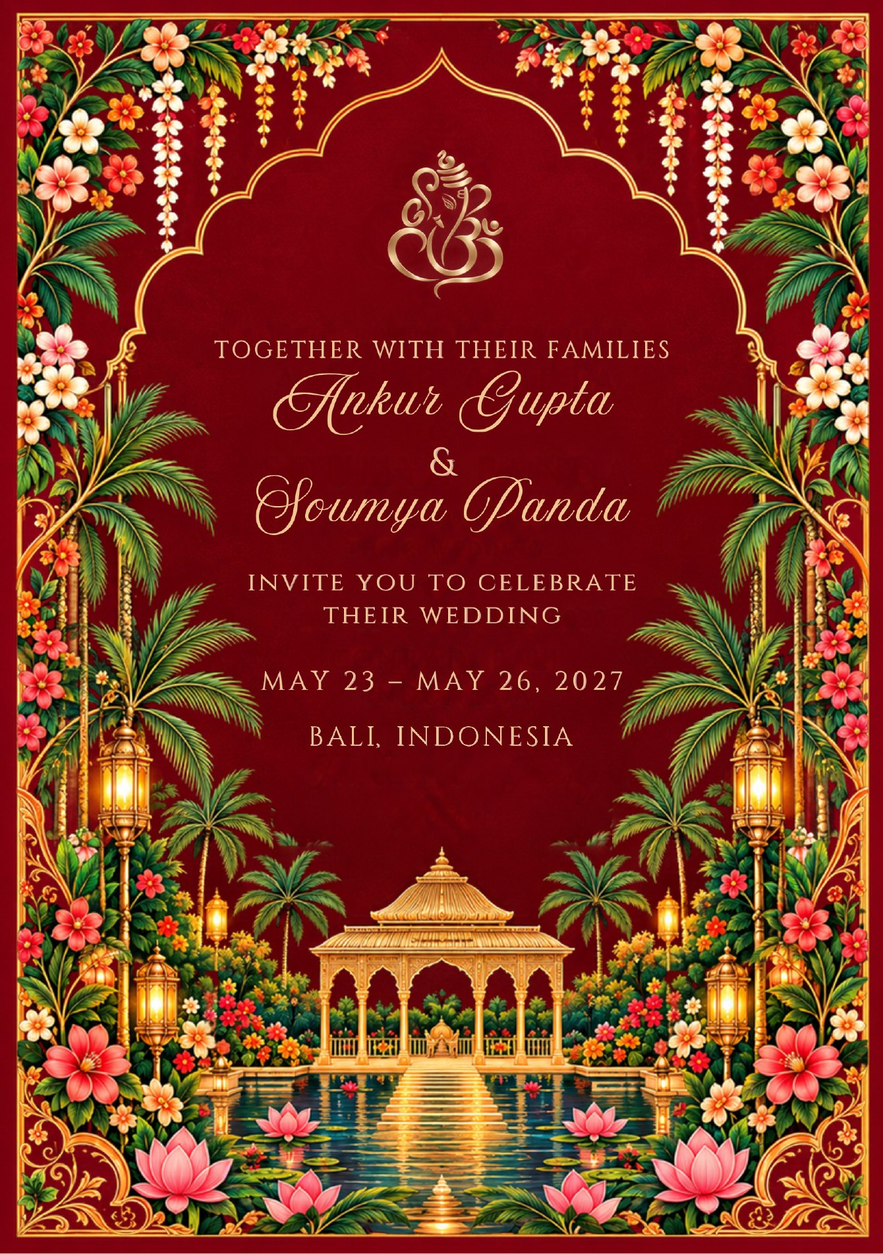
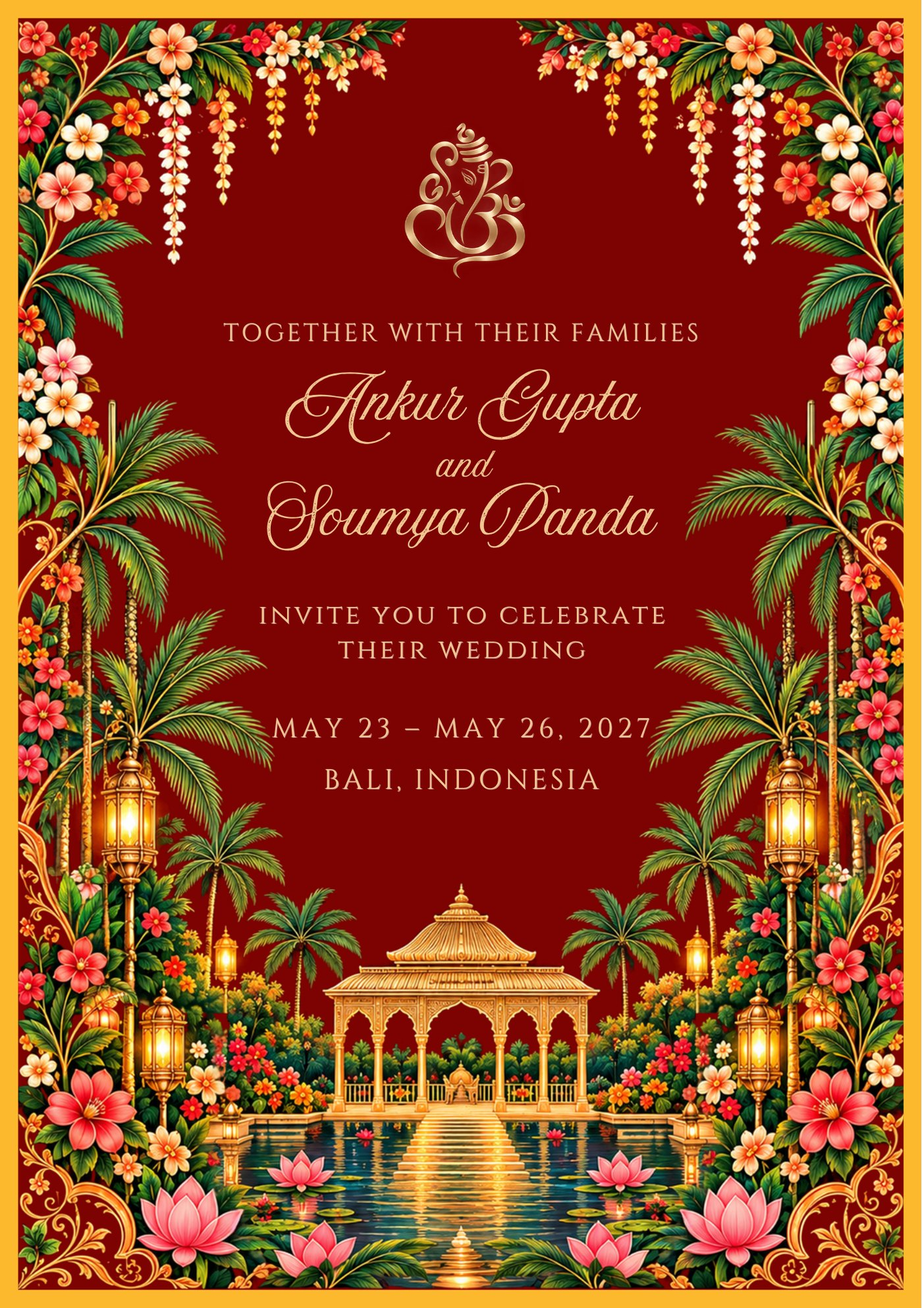
Copy edits from Ankur & Soumya, updated card suite, Tangerine script, sangeet green / reception blue
Claude-Session: https://claude.ai/code/session_012RtWByQQd2LNZ8wceq3z2x

diff --git a/index.html b/index.html
@@ -11,13 +11,13 @@
 <link rel="icon" href="img/monogram.png">
 <link rel="preconnect" href="https://fonts.googleapis.com">
 <link rel="preconnect" href="https://fonts.gstatic.com" crossorigin>
-<link href="https://fonts.googleapis.com/css2?family=Cinzel:wght@400;600&family=Pinyon+Script&family=Cormorant+Garamond:ital,wght@0,400;0,500;0,600;1,400;1,500&display=swap" rel="stylesheet">
+<link href="https://fonts.googleapis.com/css2?family=Cinzel:wght@400;600&family=Tangerine:wght@400;700&family=Cormorant+Garamond:ital,wght@0,400;0,500;0,600;1,400;1,500&display=swap" rel="stylesheet">
 <style>
 :root{
   --parchment:#F4EBD6; --parchment-deep:#EADCBF; --ink:#5A1A1E; --ink-soft:#7A3A3E;
   --gold:#C7A24A; --gold-deep:#9C7A2A; --teal:#1F4E57; --teal-deep:#153940;
   --coral:#D9553E; --turmeric:#E7B22C; --midnight:#1B2A5A; --blush:#F0B7B2; --emerald:#0F4D3A;
-  --serif:"Cormorant Garamond", Georgia, serif; --caps:"Cinzel", "Cormorant Garamond", serif; --script:"Pinyon Script", "Cormorant Garamond", cursive;
+  --serif:"Cormorant Garamond", Georgia, serif; --caps:"Cinzel", "Cormorant Garamond", serif; --script:"Tangerine", "Cormorant Garamond", cursive;
   --max:1120px; --gutter:clamp(16px,4vw,48px);
 }
 *{box-sizing:border-box}
@@ -51,11 +51,11 @@ h1,h2,h3{font-weight:500;line-height:1.1;margin:0}
 .hero .bg{position:absolute;inset:0;z-index:-2;background:var(--teal-deep) url("img/gen/hero.jpg") 60% center/cover no-repeat}
 .hero .veil{position:absolute;inset:0;z-index:-1;background:linear-gradient(to bottom,rgba(20,30,40,.35) 0%,rgba(20,30,40,.15) 45%,rgba(60,20,22,.72) 100%)}
 .hero .inner{padding:72px var(--gutter) 64px;max-width:760px}
-.hero .mono{width:min(44vw,220px);margin:0 auto 18px;filter:drop-shadow(0 4px 14px rgba(0,0,0,.35))}
-.hero h1{font-family:var(--script);font-size:clamp(2.7rem,8.5vw,6rem);font-weight:400;letter-spacing:.01em;line-height:1.15;white-space:nowrap;text-shadow:0 2px 18px rgba(0,0,0,.45)}
+.hero .mono{width:min(44vw,220px);margin:0 auto 18px;filter:brightness(0) invert(1) drop-shadow(0 4px 14px rgba(0,0,0,.45))}
+.hero h1{font-family:var(--script);font-size:clamp(3.8rem,12vw,8.4rem);font-weight:700;letter-spacing:.01em;line-height:1.15;white-space:nowrap;text-shadow:0 2px 18px rgba(0,0,0,.45)}
 .hero h1 .amp{color:#fff;padding:0 .08em;font-size:.8em}
-.hero .when{font-family:var(--caps);font-size:clamp(.75rem,2.4vw,1rem);letter-spacing:.3em;text-transform:uppercase;margin:18px 0 6px;color:#F6E7C1}
-.hero .where{font-style:italic;font-size:clamp(1.15rem,3vw,1.5rem);color:#fff;opacity:.95}
+.hero .when{font-family:var(--caps);font-weight:600;font-size:clamp(1rem,3.2vw,1.4rem);text-shadow:0 2px 10px rgba(0,0,0,.5);letter-spacing:.3em;text-transform:uppercase;margin:18px 0 6px;color:#F6E7C1}
+.hero .where{font-style:italic;font-weight:600;font-size:clamp(1.5rem,4.2vw,2.1rem);text-shadow:0 2px 10px rgba(0,0,0,.5);color:#fff;opacity:.95}
 .count{display:flex;justify-content:center;gap:clamp(14px,4vw,36px);margin:34px 0 10px}
 .count div{display:grid;gap:2px}
 .count b{font-family:var(--caps);font-weight:400;font-size:clamp(1.6rem,5vw,2.6rem);line-height:1}
@@ -81,8 +81,9 @@ h1,h2,h3{font-weight:500;line-height:1.1;margin:0}
 .event{position:relative;color:#fff;padding:clamp(56px,9vw,120px) 0;isolation:isolate;overflow:hidden}
 .event .bg{position:absolute;inset:0;z-index:-2;background-size:cover;background-position:center}
 .event .veil{position:absolute;inset:0;z-index:-1}
-.event .wrap{display:grid}
-.event .text{max-width:560px}
+.event .wrap{display:grid;max-width:1360px}
+.event .text{max-width:470px}
+.event .verse{font-style:italic;line-height:1.65;font-size:1.15rem}
 .event .om{font-family:var(--serif);font-size:2rem;line-height:1;color:#F6D98B;margin-bottom:10px}
 .event .day{font-family:var(--caps);font-size:.72rem;letter-spacing:.3em;opacity:.9}
 .event h3{font-family:var(--caps);font-weight:400;font-size:clamp(1.7rem,4.2vw,2.6rem);letter-spacing:.16em;margin:10px 0 4px;color:#F6D98B}
@@ -97,8 +98,8 @@ h1,h2,h3{font-weight:500;line-height:1.1;margin:0}
 .event .cal{display:inline-block;margin-top:22px;font-family:var(--caps);font-size:.68rem;letter-spacing:.24em;color:inherit;text-decoration:none;border:1px solid rgba(255,255,255,.7);padding:10px 18px;border-radius:2px}
 .event .cal:hover{background:rgba(255,255,255,.15)}
 /* text on the left: darken left; text on the right: darken right */
-.event.left .veil{background:linear-gradient(90deg,var(--tint) 0%,var(--tint) 35%,var(--tint-soft) 60%,transparent 100%)}
-.event.right .veil{background:linear-gradient(270deg,var(--tint) 0%,var(--tint) 35%,var(--tint-soft) 60%,transparent 100%)}
+.event.left .veil{background:linear-gradient(90deg,var(--tint) 0%,var(--tint) 46%,var(--tint-soft) 66%,transparent 92%)}
+.event.right .veil{background:linear-gradient(270deg,var(--tint) 0%,var(--tint) 46%,var(--tint-soft) 66%,transparent 92%)}
 .event.right .text{margin-left:auto}
 @media (max-width:819px){
   .event{padding:0 0 clamp(40px,8vw,56px);overflow:hidden}
@@ -111,9 +112,9 @@ h1,h2,h3{font-weight:500;line-height:1.1;margin:0}
 }
 .e-welcome{--solid:#B8402F;--tint:rgba(170,52,36,.92);--tint-soft:rgba(170,52,36,.45);background:#B8402F}
 .e-haldi{--solid:#C98E12;--tint:rgba(196,138,14,.9);--tint-soft:rgba(196,138,14,.4);background:#C98E12}
-.e-sangeet{--solid:#121B3F;--tint:rgba(16,24,66,.92);--tint-soft:rgba(16,24,66,.45);background:#121B3F}
+.e-sangeet{--solid:#10301F;--tint:rgba(14,44,30,.93);--tint-soft:rgba(14,44,30,.45);background:#10301F}
 .e-ceremony{--solid:#B0666B;--tint:rgba(168,76,90,.9);--tint-soft:rgba(168,76,90,.4);background:#B0666B}
-.e-reception{--solid:#0B3B2C;--tint:rgba(9,52,38,.92);--tint-soft:rgba(9,52,38,.45);background:#0B3B2C}
+.e-reception{--solid:#0E1D45;--tint:rgba(13,27,68,.93);--tint-soft:rgba(13,27,68,.45);background:#0E1D45}
 .farewell{text-align:center;padding:clamp(36px,6vw,64px) var(--gutter);font-style:italic;font-size:1.25rem}
 
 /* generic section */
@@ -191,10 +192,10 @@ html.gated .stage:not(.done) ~ .skip{display:block}
 .stage.done .cover-text{opacity:1}
 .cover-text .mono{position:absolute;left:50%;top:14.5%;width:28%;aspect-ratio:1;transform:translateX(-50%);border-radius:50%;background:rgba(250,244,230,.92);box-shadow:0 4px 18px rgba(0,0,0,.18);display:flex;align-items:center;justify-content:center}
 .cover-text .mono img{width:70%;height:auto}
-.cover-text .plate{position:absolute;left:9%;right:9%;bottom:6.5%;background:rgba(250,244,230,.93);border-radius:6px;border-radius:1.2cqw;padding:14px 12px 16px;padding:3.2cqw 3cqw 3.4cqw;text-align:center;box-shadow:0 6px 24px rgba(0,0,0,.15)}
-.cover-text .wi{font-family:var(--script);font-size:2.4rem;font-size:9.2cqw;line-height:1;color:#8b1e3a}
-.cover-text .nm{font-family:var(--caps);font-size:1.1rem;font-size:4.2cqw;letter-spacing:.14em;color:#8b1e3a;margin-top:1.6cqw}
-.cover-text .dt{font-family:var(--caps);font-size:.75rem;font-size:2.9cqw;letter-spacing:.14em;color:#9a5a66;margin-top:1.2cqw}
+.cover-text .plate{position:absolute;left:9%;right:9%;bottom:6.5%;background:#7A0F16;border:1px solid rgba(233,185,73,.55);border-radius:6px;border-radius:1.2cqw;padding:14px 12px 16px;padding:3.2cqw 3cqw 3.4cqw;text-align:center;box-shadow:0 6px 24px rgba(0,0,0,.15)}
+.cover-text .wi{font-family:var(--script);font-size:3rem;font-size:12cqw;line-height:1;color:#E9B949;font-weight:700}
+.cover-text .nm{font-family:var(--caps);font-size:1.1rem;font-size:4.2cqw;letter-spacing:.14em;color:#E9B949;font-weight:600;margin-top:1.2cqw}
+.cover-text .dt{font-family:var(--caps);font-size:.75rem;font-size:2.9cqw;letter-spacing:.2em;color:#E9B949;margin-top:1.2cqw}
 .sarrow{position:absolute;top:50%;transform:translateY(-50%);width:44px;height:44px;border-radius:50%;border:1px solid rgba(255,255,255,.7);background:rgba(21,57,64,.45);color:#fff;font-size:30px;line-height:40px;cursor:pointer;opacity:0;transition:opacity .3s;backdrop-filter:blur(4px)}
 .sarrow.prev{left:10px}.sarrow.next{right:10px}
 .stage.done .slider:hover .sarrow,.stage.done .slider:focus-within .sarrow{opacity:.9}
@@ -300,7 +301,7 @@ footer img{width:60px;margin:0 auto 12px;opacity:.9}
     <img class="garland rv" src="img/gen/garland2.png" alt="">
     <p class="rv">Together with their families,</p>
     <div class="names rv rv-d1">Ankur Gupta &amp; Soumya Panda</div>
-    <p class="rv rv-d2">invite you to celebrate their wedding over four days in Bali. From a sunset welcome on the sand to vows at golden hour and a reception under the lanterns, we would love to have you with us for all of it.</p>
+    <p class="rv rv-d2">invite you to celebrate their wedding in Bali. From a sunset welcome on the sand to vows at golden hour and a reception under the lanterns, we would love to have you with us for all of it.</p>
     <div class="rule rv rv-d3"></div>
     <p class="note rv rv-d3">One RSVP covers the whole celebration.</p>
   </div>
@@ -354,7 +355,7 @@ footer img{width:60px;margin:0 auto 12px;opacity:.9}
 <section class="schedule" id="schedule">
   <div class="wrap">
     <h2 class="rv">The celebrations</h2>
-    <p class="lead rv rv-d1">Five events across three days. Add any of them to your calendar.</p>
+    <p class="lead rv rv-d1">Five events across three days. Add them to your calendar.</p>
   </div>
   <div class="events">
 
@@ -369,9 +370,9 @@ footer img{width:60px;margin:0 auto 12px;opacity:.9}
         <div class="orn"></div>
         <div class="time">6:00 pm onwards</div>
         <div class="venue">Venue to follow</div>
-        <p>Sundowners, live music and dinner by the ocean as both families come together for the first time in Bali.</p>
-        <div class="attire"><span>Dress code</span>Resort chic. Linen, bright prints, sundresses, florals. Sandals welcome.</div>
-        <a class="cal" href="#" data-ics="Island Mehfil – Welcome Party|20270523T180000|20270523T230000|Welcome party for Ankur &amp; Soumya's wedding. Dress: resort chic.">Add to calendar</a>
+        <p class="verse">Sunset ka magic, samundar ka nazara,<br>Live music aur cocktails ka sahara.<br>Good vibes, great food aur pyaar beshumaar,<br>Let's kick off the wedding celebrations with a shaandaar shaam!</p>
+        <div class="attire"><span>Dress code</span>Details to follow…</div>
+        <a class="cal" href="#" data-ics="Island Mehfil – Welcome Party|20270523T180000|20270523T230000|Welcome party for Ankur &amp; Soumya's wedding. ">Add to calendar</a>
       </div></div>
     </article>
 
@@ -386,9 +387,9 @@ footer img{width:60px;margin:0 auto 12px;opacity:.9}
         <div class="orn"></div>
         <div class="time">10:00 am onwards</div>
         <div class="venue">Venue to follow</div>
-        <p>A morning of blessings, laughter and a little mess. Family and friends apply haldi to the couple for glow and good fortune, followed by brunch.</p>
-        <div class="attire"><span>Dress code</span>Shades of yellow and white. Wear something you don't mind getting turmeric on.</div>
-        <a class="cal" href="#" data-ics="Turmeric &amp; Tropics – Haldi|20270524T100000|20270524T130000|Haldi ceremony for Ankur &amp; Soumya. Dress: yellow and white.">Add to calendar</a>
+        <p class="verse">Haldi ka rang, apno ka pyaar,<br>Masti aur laughter ki hogi bahaar!<br>Dulha dulhan pe chadhega golden glow,<br>Blessings aur good vibes ka hoga flow!<br>Thodi si haldi, thoda sa hungama,<br>Brunch ke saath chalega khushiyon ka drama!</p>
+        <div class="attire"><span>Dress code</span>Details to follow…</div>
+        <a class="cal" href="#" data-ics="Turmeric &amp; Tropics – Haldi|20270524T100000|20270524T130000|Haldi ceremony for Ankur &amp; Soumya. ">Add to calendar</a>
       </div></div>
     </article>
 
@@ -399,13 +400,13 @@ footer img{width:60px;margin:0 auto 12px;opacity:.9}
         <div class="om">ॐ</div>
         <div class="day">Monday, May 24</div>
         <h3>Rhythm &amp; Revelry</h3>
-        <div class="sub">Sangeet &amp; mehendi night</div>
+        <div class="sub">Sangeet night</div>
         <div class="orn"></div>
         <div class="time">7:00 pm onwards</div>
         <div class="venue">Venue to follow</div>
-        <p>An evening of mehendi, performances from both families, dinner and dancing late into the night. Come ready to perform, or at least to cheer.</p>
-        <div class="attire"><span>Dress code</span>Festive Indian or cocktail. Jewel tones, sequins, lehengas, sherwanis, anything that moves on a dance floor.</div>
-        <a class="cal" href="#" data-ics="Rhythm &amp; Revelry – Sangeet|20270524T190000|20270525T000000|Sangeet and mehendi night for Ankur &amp; Soumya. Dress: festive Indian or cocktail.">Add to calendar</a>
+        <p class="verse">Music ki beats, sitaron bhari raat,<br>Friends and families honge ek saath!<br>Thumke lagenge, taaliyan bajengi,<br>Dance floor pe masti ki mehfil sajegi!<br>Dinner, dancing aur masti beshumaar,<br>Get ready for a night that's truly shaandaar!</p>
+        <div class="attire"><span>Dress code</span>Details to follow…</div>
+        <a class="cal" href="#" data-ics="Rhythm &amp; Revelry – Sangeet|20270524T190000|20270525T000000|Sangeet night for Ankur &amp; Soumya. ">Add to calendar</a>
       </div></div>
     </article>
 
@@ -420,9 +421,9 @@ footer img{width:60px;margin:0 auto 12px;opacity:.9}
         <div class="orn"></div>
         <div class="time">4:00 – 7:00 pm</div>
         <div class="venue">Venue to follow</div>
-        <p>The baraat and the Hindu wedding ceremony, overlooking the ocean at golden hour.</p>
-        <div class="attire"><span>Dress code</span>Traditional Indian or formal. Sarees, lehengas, sherwanis, suits. Pastels and brights encouraged; please leave red for the bride.</div>
-        <a class="cal" href="#" data-ics="Vows in Paradise – Wedding Ceremony|20270525T160000|20270525T190000|Wedding ceremony of Ankur &amp; Soumya. Dress: traditional Indian or formal.">Add to calendar</a>
+        <p class="verse">Dhol ki thaap, baraat ka jashn,<br>Naachenge sab, hoga full-on fun!<br>Samundar kinare, sunset ke rang,<br>Saat phere honge apno ke sang!<br>Bali ki shaam hogi yaadgaar,<br>Jab do dil bandhenge shaadi ke bandhan mein is baar!</p>
+        <div class="attire"><span>Dress code</span>Details to follow…</div>
+        <a class="cal" href="#" data-ics="Vows in Paradise – Wedding Ceremony|20270525T160000|20270525T190000|Wedding ceremony of Ankur &amp; Soumya. ">Add to calendar</a>
       </div></div>
     </article>
 
@@ -437,9 +438,9 @@ footer img{width:60px;margin:0 auto 12px;opacity:.9}
         <div class="orn"></div>
         <div class="time">8:00 pm onwards</div>
         <div class="venue">Venue to follow</div>
-        <p>Dinner, toasts and dancing under the lanterns to close out the celebrations.</p>
-        <div class="attire"><span>Dress code</span>Formal, black tie optional. Indian or western formalwear.</div>
-        <a class="cal" href="#" data-ics="Afterglow – Wedding Reception|20270525T200000|20270526T010000|Wedding reception for Ankur &amp; Soumya. Dress: formal.">Add to calendar</a>
+        <p class="verse">Lanterns ki roshni, sitaron bhari raat,<br>Dinner, drinks aur toasts apno ke saath!<br>Dance aur masti ka hoga jashn shaandaar,<br>Yaadein rahengi dil mein, forever beshumaar!</p>
+        <div class="attire"><span>Dress code</span>Details to follow…</div>
+        <a class="cal" href="#" data-ics="Afterglow – Wedding Reception|20270525T200000|20270526T010000|Wedding reception for Ankur &amp; Soumya. ">Add to calendar</a>
       </div></div>
     </article>
 
@@ -452,13 +453,13 @@ footer img{width:60px;margin:0 auto 12px;opacity:.9}
 <section class="section travel" id="travel">
   <div class="wrap">
     <h2 class="rv">Getting to Bali</h2>
-    <p class="lead rv rv-d1">Most of what you need to know before you book.</p>
+    <p class="lead rv rv-d1">Most of what you need to know before you book your flight.</p>
     <img class="map rv" src="img/gen/bali-map.jpg" alt="Illustrated map of Bali">
     <div class="cols rv rv-d1">
       <div>
         <h3>Flights</h3>
         <p>Fly into Ngurah Rai International Airport, Denpasar (DPS). From the US the easiest routes connect through Singapore, Doha, Tokyo or Hong Kong. From India there are direct flights from Delhi, Mumbai and Bengaluru.</p>
-        <p>Plan to arrive by Sunday afternoon, May 23, for the welcome party that evening, and fly out from Wednesday, May 26.</p>
+        <p>Plan to arrive by Sunday afternoon, May 23, for the welcome party that evening, and fly out on Wednesday, May 26.</p>
       </div>
       <div>
         <h3>Visa &amp; passport</h3>
@@ -469,20 +470,19 @@ footer img{width:60px;margin:0 auto 12px;opacity:.9}
       <div>
         <h3>Where to stay</h3>
         <p>All events take place at one resort in southern Bali, a short drive from the airport. Hotel details to come soon.</p>
-        <p class="note">Airbnb and villa options are plentiful across southern Bali if you'd rather stay elsewhere; we'll share nearby suggestions along with the hotel details.</p>
       </div>
       <div>
         <h3>Getting around</h3>
-        <p>Grab and Gojek (ride-hailing apps) work well across Bali and are inexpensive. Hotel transfers from the airport can be arranged ahead of time.</p>
-        <p>Cards are accepted at the resort and most restaurants. Carry some Indonesian rupiah for taxis, markets and small shops.</p>
+        <p>Grab and Gojek (ride-hailing apps) work well across Bali and are inexpensive. Hotel transfers from the airport will be provided.</p>
+        <p>Credit cards are widely accepted across Bali. Carry some Indonesian rupiah for taxis, markets and small shops.</p>
       </div>
       <div>
         <h3>Weather</h3>
-        <p>Late May is the start of Bali's dry season: around 30°C / 86°F, sunny, with the occasional short shower. Light fabrics, sunscreen and something for warm evenings.</p>
+        <p>Late May is the start of Bali's dry season: around 30°C / 86°F, sunny, with occasional showers. Please carry appropriate clothing and sunscreen for the warm climate.</p>
       </div>
       <div>
         <h3>Make a holiday of it</h3>
-        <p>Uluwatu Temple at sunset and the Kecak fire dance. A day in Ubud for the rice terraces and Tirta Empul. Beach clubs in Seminyak and Uluwatu. A boat to Nusa Penida to snorkel with manta rays.</p>
+        <p>Catch a magical sunset and Kecak fire dance at Uluwatu Temple, or explore Ubud's lush rice terraces and sacred Tirta Empul. Sip cocktails at the chic beach clubs of Seminyak and Uluwatu, or sail to Nusa Penida for an unforgettable manta ray snorkeling experience.</p>
       </div>
     </div>
   </div>
@@ -515,20 +515,16 @@ footer img{width:60px;margin:0 auto 12px;opacity:.9}
   <div class="wrap">
     <h2 class="rv">Questions</h2>
     <div class="faq rv">
-      <details><summary>How do I RSVP?</summary><p>Use the RSVP button on this page. It opens our RSVP form, where you can find your name, tell us whether you're coming, and let us know your meal preference, any dietary needs and your travel dates. One response covers all four days.</p></details>
-      <details><summary>What should I wear?</summary><p>Each event has its own dress code in the schedule above. In general, think light fabrics and colour. It will be warm and humid.</p></details>
-      <details><summary>Can I bring a plus one?</summary><p>Your invitation will say who is included. If you're unsure, message Ankur or Soumya directly.</p></details>
-      <details><summary>Are children welcome?</summary><p>Of course. Bring the whole family. Let us know how many little ones when you RSVP so we can plan food and seating.</p></details>
-      <details><summary>Will there be vegetarian food?</summary><p>Yes. Every event will have vegetarian options, and you can tell us about dietary needs when you RSVP.</p></details>
+      <details><summary>How do I RSVP?</summary><p>Simply click the RSVP button on this page, find your name, and let us know if you'll be joining the celebrations! One RSVP covers all wedding festivities. We can't wait to celebrate with you! 💕</p></details>
+      <details><summary>What should I wear?</summary><p>Each celebration has its own dress code, so check the event details for inspiration! Think breezy fabrics, vibrant colors, and outfits that blend elegance with tropical comfort. After all, it's a Big Fat Indian Wedding in beautiful Bali, so dress to impress, but keep it cool! 🌴☀</p></details>
       <details><summary>Do I need to exchange money?</summary><p>Cards are widely accepted. Carry some Indonesian rupiah for taxis, markets and small shops. ATMs are everywhere, including the airport.</p></details>
-      <details><summary>Gifts?</summary><p>Your presence in Bali is the greatest gift.</p></details>
     </div>
   </div>
 </section>
 
 <section class="rsvp-band" id="rsvp">
   <h2 class="rv">Will you join us?</h2>
-  <p class="rv rv-d1">Please let us know by <strong>December 15, 2026</strong> so we can plan rooms, flights and plates for everyone.</p>
+  <p class="rv rv-d1">Kindly RSVP by <strong>December 15, 2026</strong>, and let us know if you'll be joining us for the celebrations in Bali! We can't wait to make unforgettable memories together! 🌴💕</p>
   <a class="cta rv rv-d2" href="https://www.theknot.com/ankursoumya/rsvp" target="_blank" rel="noopener">RSVP now</a>
   <small>One response covers all four days.</small>
 </section>
